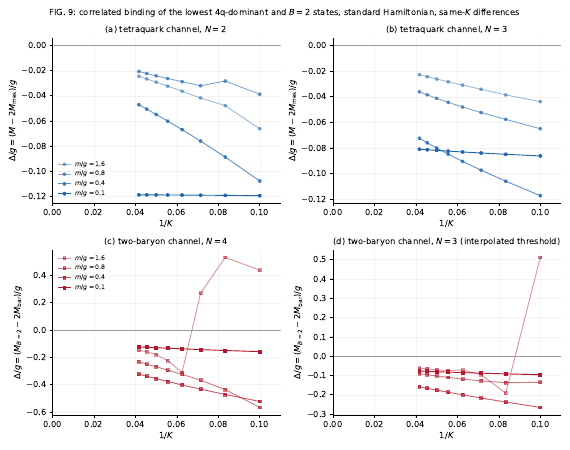
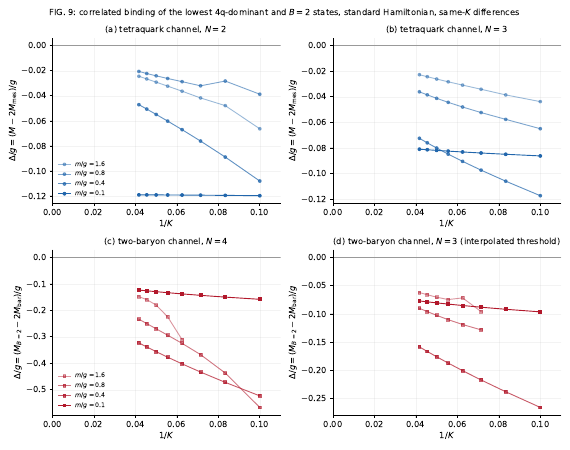
Fig 9's nonmonotonicity resolved as representability, not crossings
The level table shows no partner branch at coarse K: the B=2 ground
drops discontinuously when the two-baryon configuration first fits on
the grid, so those points are excluded from both the curves and the fits
(N=4 at 2K<32 for m/g=1.6; N=3 at 2K<28 for m/g>=0.8), and the caption
and text say the mechanism instead of averaging over it. The remaining
wiggle in panel (d) is one marker-size and belongs to the labeled
odd-grid threshold interpolation. Also answered in-session: the pair
correlator separates molecule from democratic but NOT diquark-diquark
from generic compact -- that needs the color-resolved correlator
C_R(x1,x2), a genuinely new observable, named in Section IX as the
refinement.

Claude-Session: https://claude.ai/code/session_01JWtufbC4ig4vt5s4SjrEKw

diff --git a/paper/sections/09-exotics.tex b/paper/sections/09-exotics.tex
@@ -34,9 +34,11 @@ built that way is labeled.
 even $2K = 20$--$48$, Fock truncations $\mathrm{LPN} = 6$ ($B=0$, $N=2,3$)
 and $10/6$ ($B=2/B=1$, $N=4$), $m/g$ as labeled, no fits drawn.  (a), (b):
 lowest four-quark-dominant $B=0$ level minus twice the same-$K$ meson
-mass.  (c): $B=2$ ground state minus twice the same-$K$ baryon mass.  The
-$m/g=1.6$ discontinuity in (c) is a level crossing, discussed in the
-text.}
+mass.  (c): $B=2$ ground state minus twice the same-$K$ baryon mass; (d)
+the same at $N=3$ with the threshold interpolated across the odd-$K$
+baryon grid.  At $m/g=1.6$ the points below the resolution where the
+two-baryon configuration first fits on the grid are excluded, as in the
+fits; see text.}
 \label{fig:exotics}
 \end{figure*}
 
@@ -75,11 +77,13 @@ pattern at the physical color count: a $B=2$ ground state that is
 six-parton at the 97--99.9\% level and bound, with
 $\Delta/g = \numExoHexathreeMgZeropOne$ at $m/g = 0.1$ against its
 interpolated threshold.  At $m/g = 1.6$ the channel changes
-character between $2K = 28$ and $32$, and the level table locates the
-crossing exactly: the threshold baryon runs smoothly across it, while the
-$B=2$ ground state switches identity between two eight-parton
-momentum-partition configurations at coarse resolution.  The
-post-crossing branch converges smoothly; we fit it alone and quote
+character between $2K = 28$ and $32$, and the level table shows what
+happens: the threshold baryon runs smoothly across it while the $B=2$
+ground drops discontinuously, with no partner level continuing the old
+branch.  That is not an avoided crossing but a representability
+threshold: at weak coupling the two-baryon configuration does not fit on
+a coarse grid, and its mass appears abruptly once the basis contains it.
+We fit and draw only the resolutions past that threshold and quote
 $\numExoHexaMgOnepSix$ with its accordingly wide spread.  The gentler
 non-monotonicities of the tetraquark curves have a related origin: the
 selected state runs through a near-degenerate band of four-quark levels

diff --git a/paper/make_figures.py b/paper/make_figures.py
@@ -710,6 +710,13 @@ def fig9():
             odd = sorted(K for (l, m, K) in gnd
                          if l == f"{panel}_B1" and m == mg)
             for K in KS:
+                # At weak coupling the two-baryon configuration is not yet
+                # representable on the coarse grid: the B=2 ground drops
+                # discontinuously (with no partner level to track) when the
+                # basis first contains it.  Points below that threshold are
+                # excluded, matching the fits.
+                if (panel == "hexa" and mg == 1.6 and K < 32) or (panel == "hexa3" and mg >= 0.8 and K < 28):
+                    continue
                 b2 = gnd.get((f"{panel}_B2", mg, K))
                 if not b2:
                     continue

diff --git a/paper/frozen/numbers.tex b/paper/frozen/numbers.tex
@@ -10,8 +10,8 @@
 \newcommand{\numExoHexaMgOnepSix}{-0.2360 \pm 0.2909}
 \newcommand{\numExoHexathreeMgZeropOne}{-0.0592 \pm 0.0029}
 \newcommand{\numExoHexathreeMgZeropFour}{-0.0689 \pm 0.0103}
-\newcommand{\numExoHexathreeMgZeropEight}{-0.0203 \pm 0.0208}
-\newcommand{\numExoHexathreeMgOnepSix}{-0.0326 \pm 0.1184}
+\newcommand{\numExoHexathreeMgZeropEight}{-0.0203 \pm 0.0145}
+\newcommand{\numExoHexathreeMgOnepSix}{-0.0326 \pm 0.0590}
 \newcommand{\numExoTetraNTwoMgZeropOne}{-0.1189 \pm 0.0002}
 \newcommand{\numExoTetraNTwoMgZeropFour}{-0.0095 \pm 0.0039}
 \newcommand{\numExoTetraNTwoMgZeropEight}{-0.0046 \pm 0.0056}

diff --git a/paper/make_numbers.py b/paper/make_numbers.py
@@ -488,7 +488,7 @@ def gather() -> dict:
         odd = sorted(K for (l, m, K) in gnd if l == "hexa3_B1" and m == mg)
         Ks, Ms, Mt = [], [], []
         for K in KS:
-            if mg == 1.6 and K <= 20:
+            if mg >= 0.8 and K < 28:
                 continue
             b2 = gnd.get(("hexa3_B2", mg, K))
             los = [k for k in odd if k < K]
